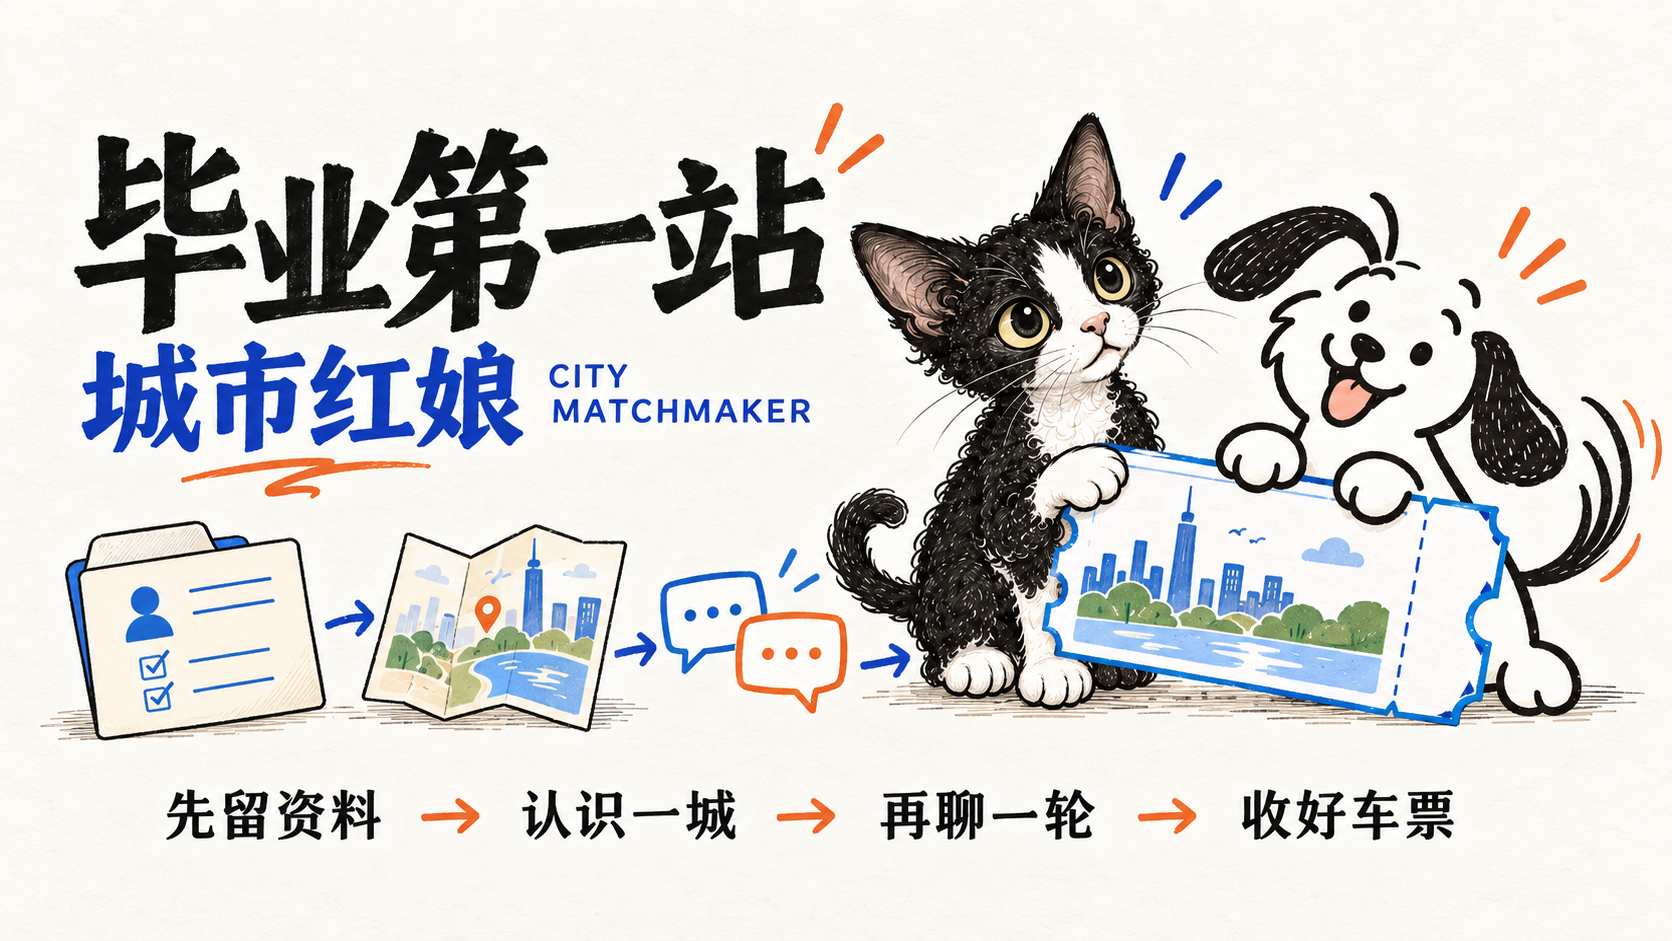
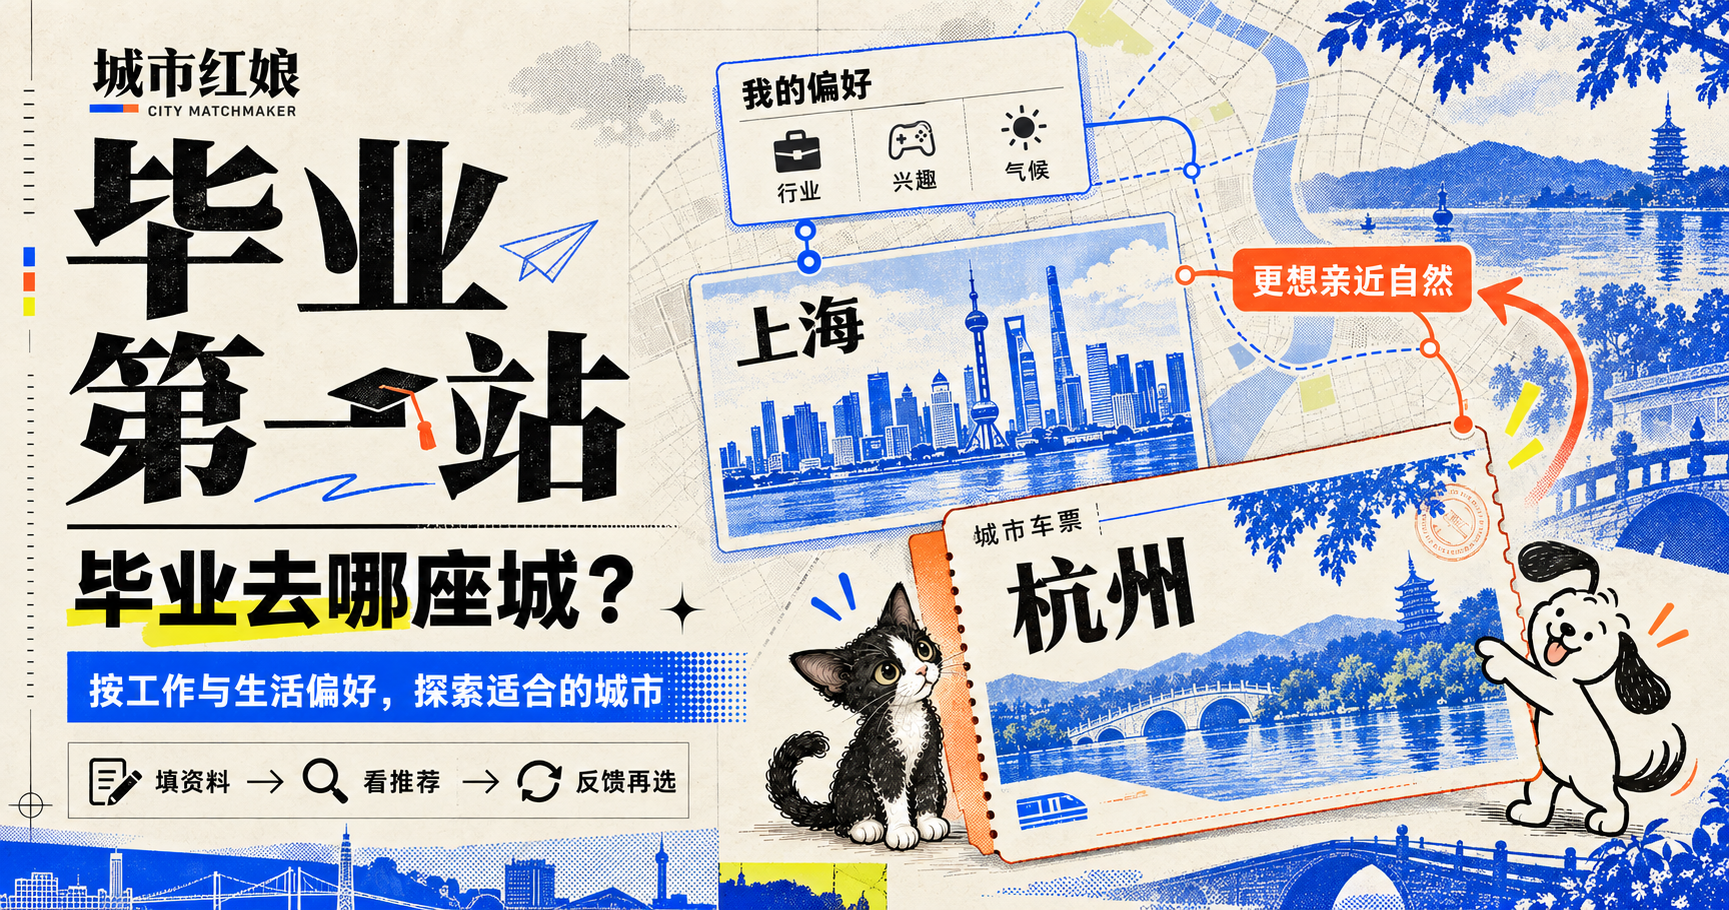
Redesign cover around city exploration and feedback

diff --git a/docs/cover-prompt.md b/docs/cover-prompt.md
@@ -1,46 +1,54 @@
-# README 产品首图
+# 首图制作记录
 
-- 成品：`docs/cover.png`
-- 生成方式：内置 `image_gen`，四张本地参考图引导的原创产品信息插画。
-- 实际尺寸：1672 × 941 px，约 16:9；非应用截图。
-- 背景：不透明暖白。
-- 用途：GitHub README 首页产品信息首图。
+- 日期：2026-10-03。
+- 用途：GitHub README 产品首图；本轮按用户要求重新生成。
+- 工具：内置 imagegen。
+- 版式参考：[城市潜像首图](https://github.com/SuperLeilei2026/city-afterimage/blob/main/public/og.png)。借鉴米白纸感、黑色大标题、蓝橙点色和用图形解释用途的方式。
+- 角色参考：[已确认的猫狗形象](../assets/mascots-concept-v1.png)。INTJ 黑白开脸德文猫、ENFP 线条小狗。
+- 成品：[cover.png](cover.png)。这是产品玩法示意插画，不是应用截图。
+- 图中上海到杭州是“用户反馈会影响推荐”的示例，不代表固定推荐、实时地图或幸福预测。
+- 本次仅替换仓库封面，不改变应用功能、参赛包或已提交的版本标签。
 
-## 参考素材
+## 完整提示词
 
-1. `assets/mascots-concept-v1.png`：已确认的猫狗角色与风格。
-2. `qa/desktop-welcome.png`：产品配色、档案和车票视觉。
-3. `assets/guide-cat.png`：黑白德文卷毛猫身份参考。
-4. `assets/guide-dog.png`：现有黑白线条狗身份参考。
-
-## 生成提示词（原文）
-
-```text
 Use case: ads-marketing.
-Asset type: a refined 16:9 GitHub README hero / product information cover, landscape 2048 × 1152.
-Create an original polished editorial illustration for the Chinese graduate city-choice product “毕业第一站 / 城市红娘”. This is a product cover illustration, NOT a screenshot and NOT a fake application screen.
-Reference image 1 (mascots-concept-v1.png): approved identities and drawing styles of the two guide characters.
-Reference image 2 (desktop-welcome.png): warm-white paper, black Chinese typography, restrained blue/orange visual language and document-folder/ticket metaphors. Do not reproduce its form or tiny UI text.
-Reference image 3 (guide-cat.png): strict cat identity reference — the SAME slender black-and-white Devon Rex kitten, very large upright ears, white central facial blaze and muzzle, curly black coat, white chest and paws, golden eyes, holding a blue-outlined ticket. Keep it Devon Rex, not a round-faced generic cat.
-Reference image 4 (guide-dog.png): strict dog identity reference — the SAME cheerful hand-drawn white dog with loose black ink outline, black floppy ears, happy open mouth and wagging curved tail, holding orange-outlined tickets. Keep this simple illustrated style; do not make it photorealistic.
+Asset type: a beautifully designed wide horizontal GitHub README hero poster, aspect ratio about 1.9:1, ideally 2400 x 1260.
+Primary request: regenerate the product cover for "毕业第一站 · 城市红娘", a playful city-selection explorer for graduates. A viewer should immediately understand WHO it is for and WHAT it does: graduates enter work and everyday-life preferences, see a suggested city, give feedback, and explore an adjusted suggestion.
 
-Visual direction: generous warm ivory negative space (#f7f5ef), black ink typography, saturated cobalt blue (#2e50c8) and small burnt-orange accents (#c65225). Subtle elegant paper texture, gentle ink irregularities; sophisticated editorial design that feels personal, legible and inviting. No gradient, no 3D plastic, no neon, no glossy dashboard, no chart clutter.
-Composition: strong black Chinese headline in the upper-left, occupying about 40% width, with the concise subtitle “城市红娘” in cobalt and small English “CITY MATCHMAKER”. An elegantly arranged chain of paper objects bridges the center and lower-middle: an ivory personal-file folder with a few blue line marks and checkboxes, a small folded map with a generic city skyline and a lake/green patch, a pair of speech shapes represented by simple blue/orange ink outlines, ending in a beautiful perforated city ticket. The objects clearly convey profile → city introduction → feedback conversation → take-away ticket, but are editorial metaphors, not real screenshots. The two approved mascots sit/play together to the right, naturally interacting with the final ticket, at comparable visual weight. Do not repeat the mascots.
-At the bottom, aligned with the main title, print the four-step text in a single clearly readable line with restrained arrows. Use fewer, larger words and let white space do the work.
+Input images:
+Image 1 (/Users/leijing/leileiCoding/projects/city-afterimage/public/og.png) is the precise editorial STYLE and COMPOSITION reference: warm ivory paper, very bold black Chinese display typography, ultramarine blue, vermilion orange, tiny acid-yellow accents, delicate map-like drawing, tactile halftone and fine print registration lines. Match its design sophistication, information clarity and strong asymmetric typography. Do not copy its Wuhan neighborhood geography, existing wording, logo, or claims.
+Image 2 (/Users/leijing/Documents/ChatGPT/Agentic App/city-matchmaker/assets/mascots-concept-v1.png) is the CHARACTER IDENTITY reference only. Preserve the black-and-white facial-blaze Devon Rex cat with very large pointed ears, slender body and short curly coat; preserve the lively minimal black-line white dog with floppy black ears. The cat and dog are small supporting guides, not the principal subjects and not giant character merchandise art.
 
-Text (verbatim; Chinese must be exact, no additions, no typos):
-“毕业第一站”
-“城市红娘”
-“CITY MATCHMAKER”
-“先留资料 → 认识一城 → 再聊一轮 → 收好车票”
+Composition:
+Left approximately 43%: superb typographic editorial hierarchy, very large black Chinese display title, generous breathing room, aligned margins. Use the main title on two lines: "毕业" then "第一站". A restrained small product name "城市红娘" sits above. Below the main title, a bold question "毕业去哪座城？". Then an ultramarine rectangular strip with crisp contrasting type reading "按工作与生活偏好，探索适合的城市". At the lower left, a compact three-step line "填资料 → 看推荐 → 反馈再选". All words should remain readable as a README image at about 850 px wide.
 
-Constraints: no happiness probability, match score, horoscope prediction, guaranteed career or happiness claim, fake data, badges, watermarks, sponsors, buttons, browser chrome, or fine-print gibberish. No extra written words on the folders, map or ticket. Preserve the recognizable cat and dog identities from the references. Make the purpose understandable at first glance and the title readable as a GitHub thumbnail.
-```
+Right approximately 57%: one coherent, spacious, editorial illustration that demonstrates the recommendation feedback loop. It is a conceptual city-selection journey, not a literal map or fabricated app screenshot. At the upper-right/top-center, a small neat personal-preferences card titled "我的偏好", with three legible small tab labels "行业" "兴趣" "气候". A fine vivid blue route connects it to a first city postcard clearly titled "上海", containing a beautifully simplified blue city skyline. An orange feedback note along the route says "更想亲近自然". The orange path continues toward a larger foreground beautifully printed ticket titled "城市车票", showing "杭州" in bold and an attractive blue lake, trees and city illustration. The two city cards have room to breathe and subtly overlap, with restrained pale abstract street-grid print texture connecting the composition. A small hand-drawn return arrow makes feedback visibly iterative without a dense flowchart. The skyline and lake are evocative illustrations, not factual data graphics.
+At the bottom of this illustrated area, place the confirmed cat and dog as small guides interacting with the foreground ticket (cat sitting next to it, dog pointing or leaning toward it). Together they should occupy less than 15% of the entire poster. Retain their reference identities while integrating subtle paper grain and print texture with the overall design. Their faces remain expressive and appealing but do not overwhelm the product narrative.
+
+Palette and medium: warm cream textured paper, deep near-black title, electric ultramarine, vivid orange and very small acid yellow. Tactile modern Chinese editorial poster, confident type hierarchy, crisp information design, restrained halftone, fine thin technical lines. Mostly flat print illustration. No shiny 3D, no generic corporate dashboard, no large empty white hole, no fluffy mascot-dominant layout.
+
+Use ONLY these exact Chinese text strings, with correct clear glyphs:
+"城市红娘"
+"毕业"
+"第一站"
+"毕业去哪座城？"
+"按工作与生活偏好，探索适合的城市"
+"填资料 → 看推荐 → 反馈再选"
+"我的偏好"
+"行业"
+"兴趣"
+"气候"
+"上海"
+"更想亲近自然"
+"城市车票"
+"杭州"
+A single small English line "CITY MATCHMAKER" is optional under the product name.
+
+Constraints: all text comfortably within the canvas with clear hierarchy. Do not add percentages, happiness predictions, scores, scientific personality claims, MBTI scoring, astrology symbols, job guarantees, real estate claims, App Hub publication badges, AI-agent claims, awards, fake interface controls, URLs, QR codes, GitHub logos, watermarks, decorative illegible text, extra characters, or city factual annotations. The image should communicate an illustrative exploration example, not a guaranteed recommendation for all graduates.
 
 ## 视觉核验
 
-- “毕业第一站”“城市红娘”“CITY MATCHMAKER”与底部四步中文均可读且文字准确。
-- 档案、城市地图、对话和车票形成清晰的体验递进；并非截图或伪造界面。
-- 猫保留黑白德文的大立耳、白色中线、卷毛与金色眼睛；狗保留黑耳白身的手绘线条形象。
-- 无幸福概率、匹配分数、人格预测、保证发展或幸福的承诺。
-- 首图已作为本仓库 README 的产品信息插画使用。
+- 已对照原图核验：产品名、毕业选城问题、偏好说明、流程、两座城市名与反馈文字清楚且无错字。
+- 大标题说明目标人群，个人偏好、城市卡与反馈线路解释玩法；猫狗作为引导角色。
+- 保留已确认的黑白开脸德文猫与活泼线条狗。
+- 不包含幸福概率、城市评分、Agent 已接通或 App Hub 已上架等声明。

diff --git a/README.md b/README.md
@@ -2,7 +2,7 @@
 
 **毕业去哪里？先和一座城市约会，再决定要不要继续了解。**
 
-![毕业第一站 · 城市红娘](docs/cover.png)
+![毕业第一站 · 城市红娘：按工作与生活偏好探索城市，根据反馈调整推荐](docs/cover.png)
 
 **GOSIM Agentic App 2026｜MOST暴躁队｜Leinstein** · [初赛提交回执](https://github.com/gosimfoundation/hackathon-agenticapp26/issues/13#issuecomment-5964776262)
 
